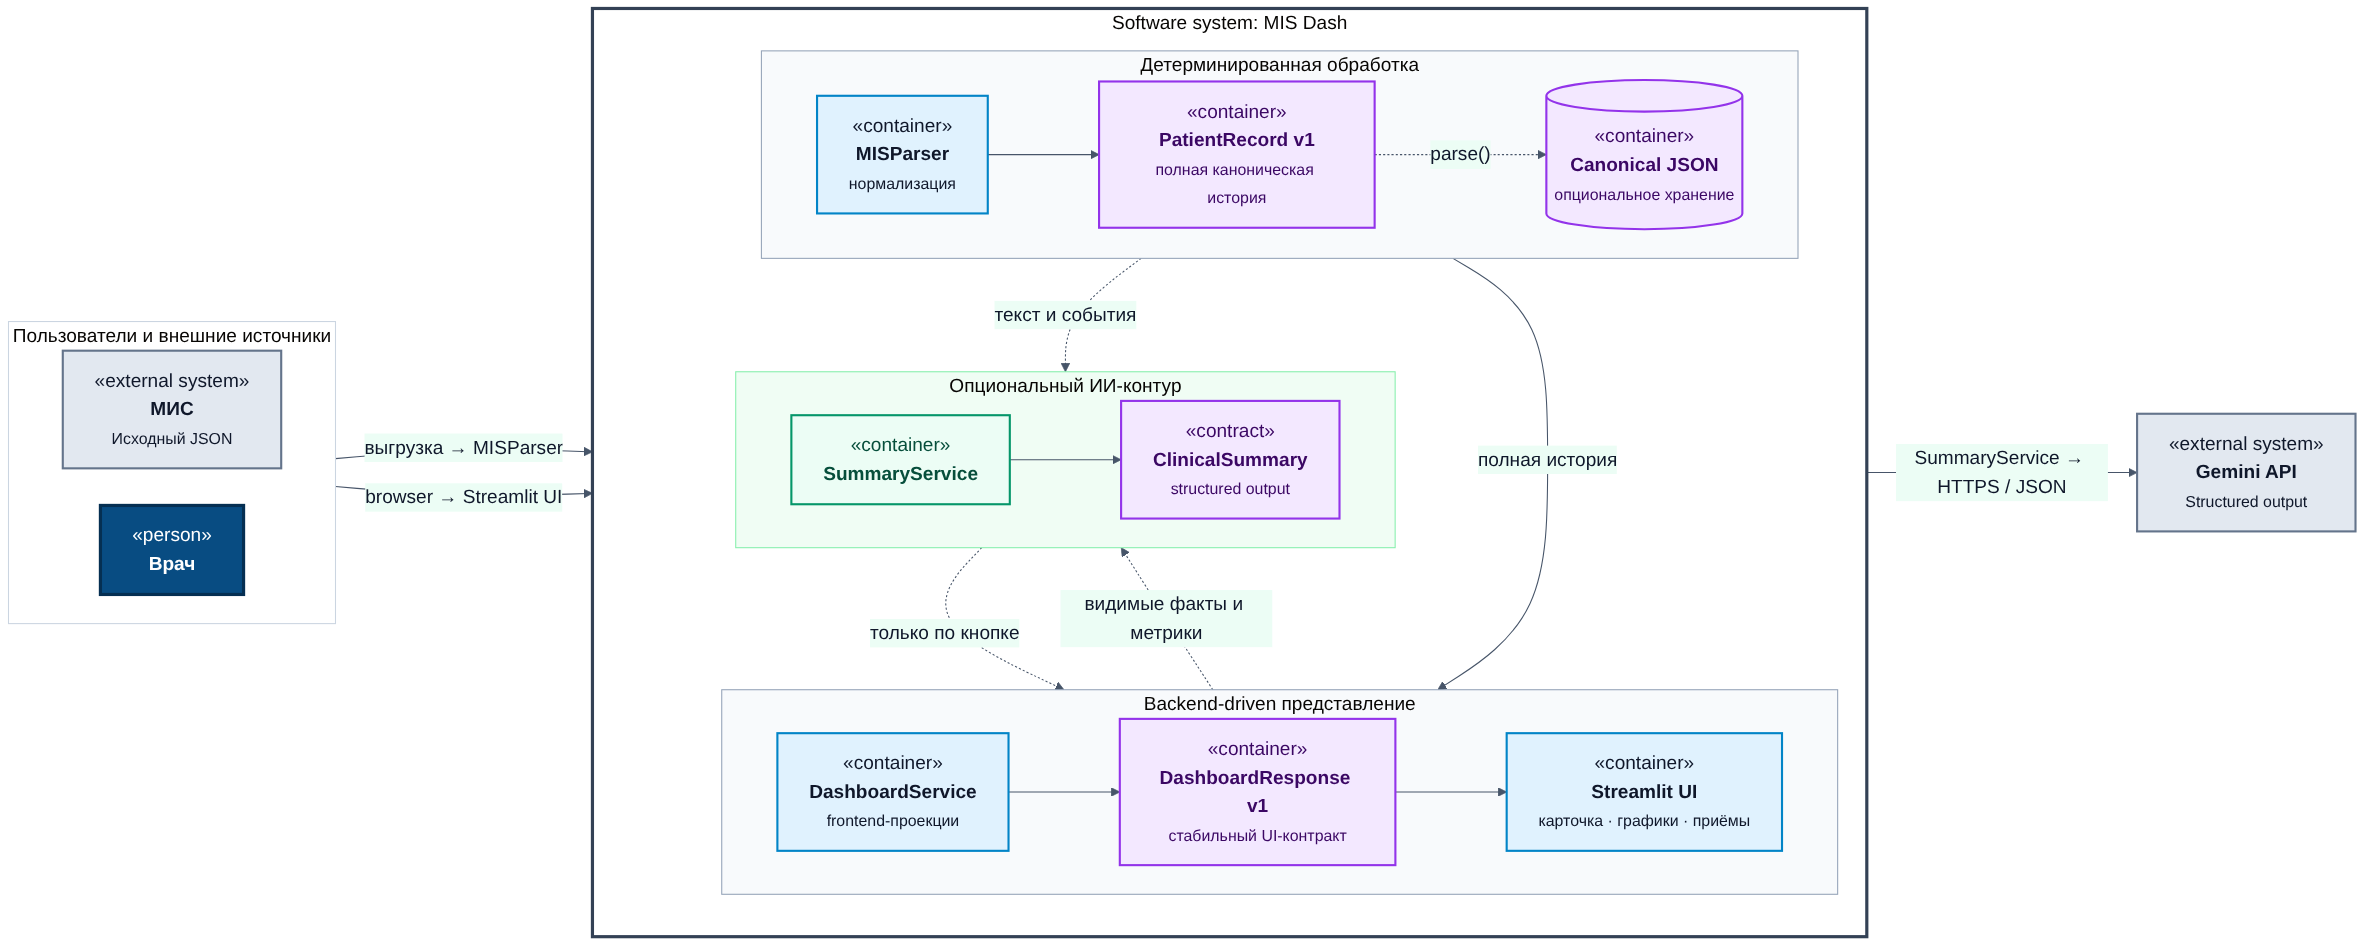
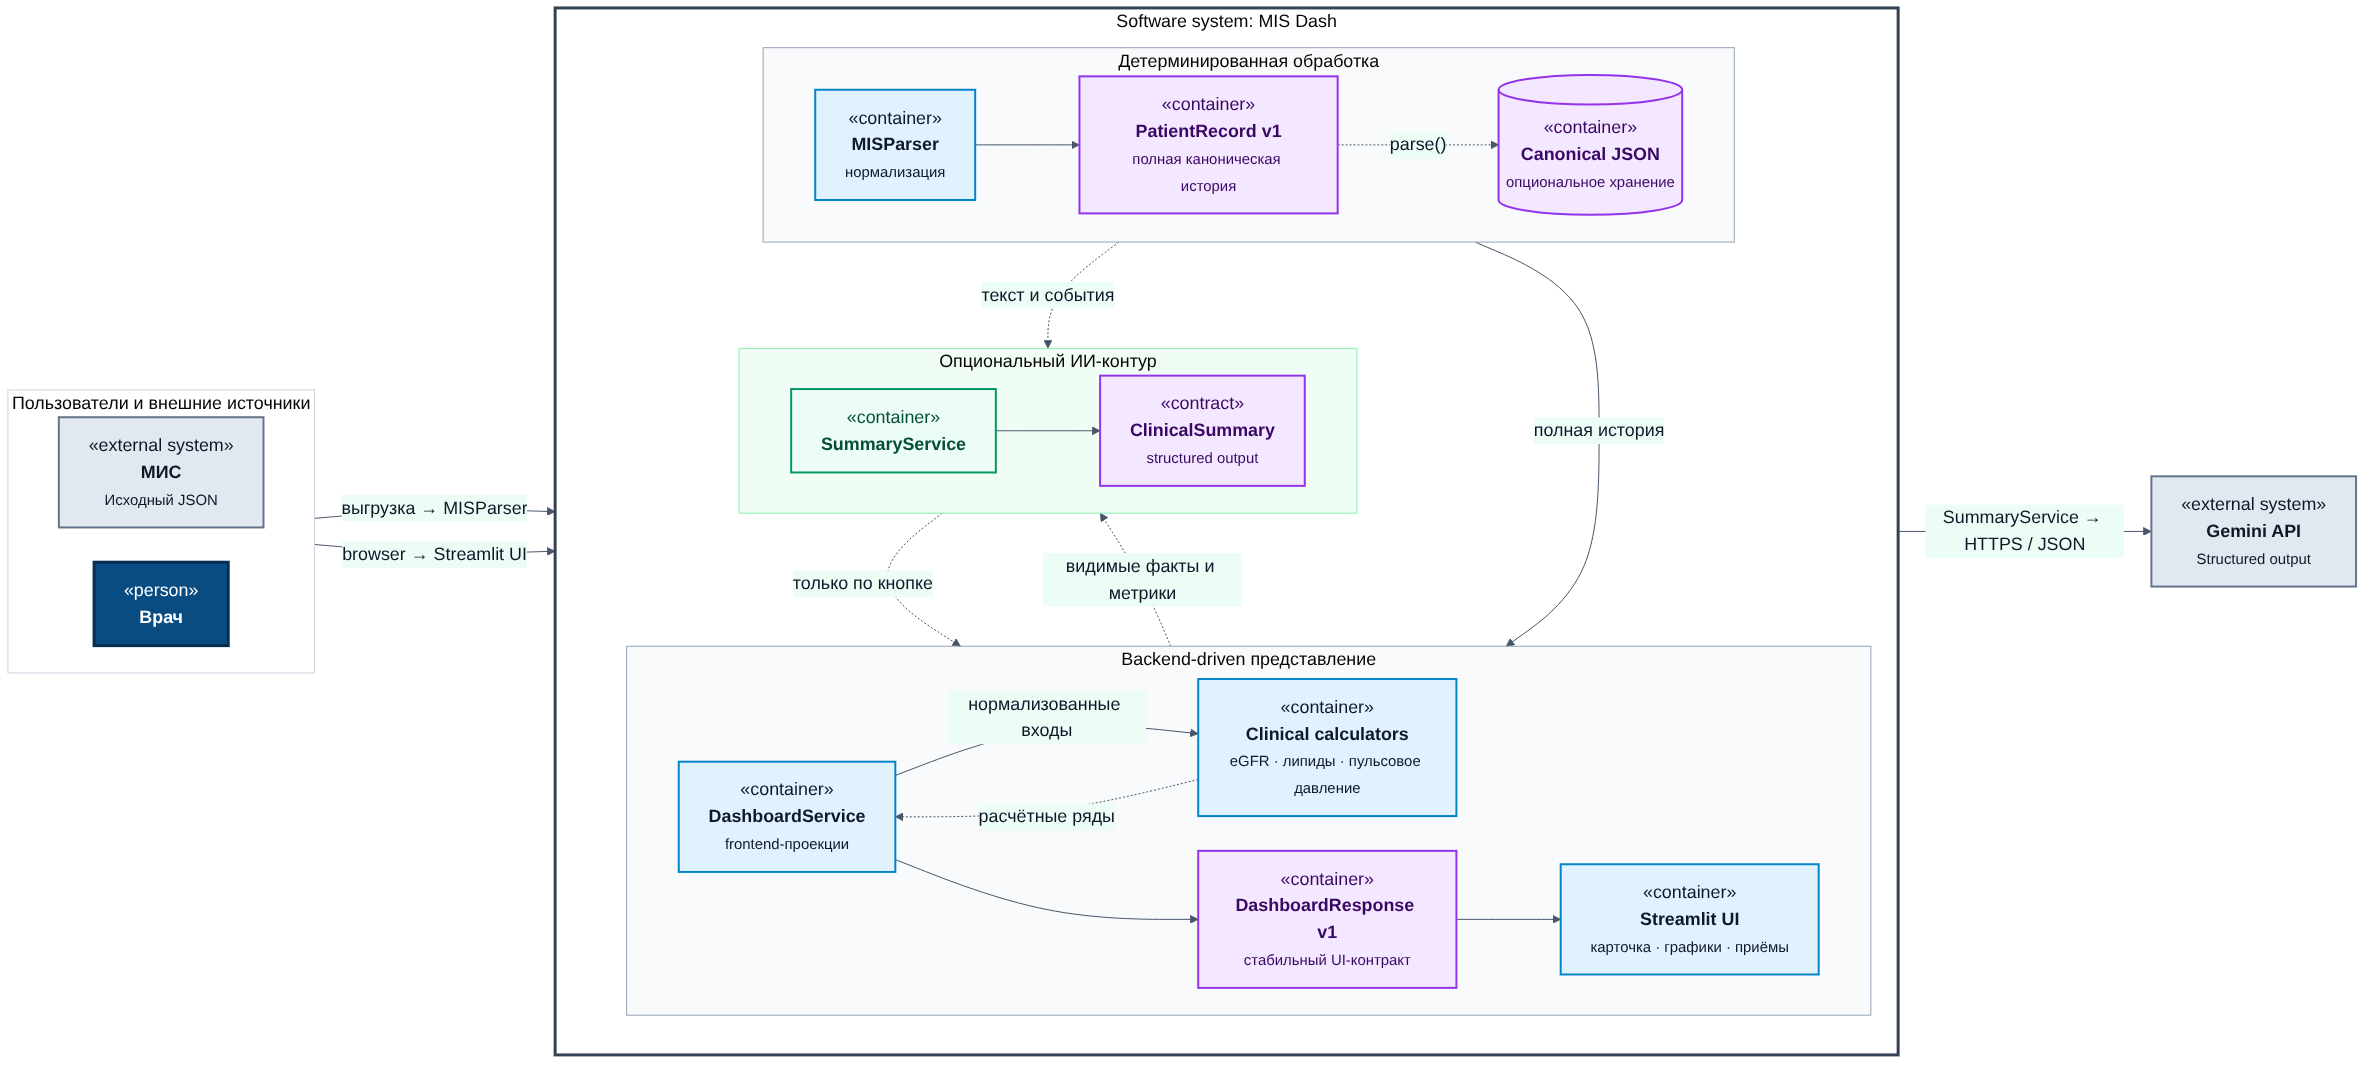
feat: surface calculated metrics in dashboard

diff --git a/src/app/components/metrics.py b/src/app/components/metrics.py
@@ -8,7 +8,7 @@ from datetime import date, datetime, time, timedelta, timezone
 import plotly.graph_objects as go
 import streamlit as st
 
-from src.contracts.dashboard.v1 import DashboardResponse, MetricSeries
+from src.contracts.dashboard.v1 import CalculationInfo, DashboardResponse, MetricSeries
 
 
 @dataclass(frozen=True)
@@ -22,20 +22,31 @@ METRIC_GROUPS = (
     MetricGroup(
         "blood-pressure",
         "Артериальное давление",
-        ("systolic", "diastolic"),
+        ("systolic", "diastolic", "pulse-pressure"),
     ),
     MetricGroup(
         "glycemic-control",
         "Гликемический контроль",
         ("glucose", "hba1c"),
     ),
-    MetricGroup("kidneys", "Почки", ("creatinine", "potassium")),
+    MetricGroup(
+        "kidneys",
+        "Почки",
+        (
+            "creatinine",
+            "egfr-ckd-epi-2021",
+            "urine-albumin-creatinine-ratio",
+            "potassium",
+        ),
+    ),
     MetricGroup(
         "lipids",
         "Липиды",
         (
             "total-cholesterol",
+            "non-hdl-cholesterol",
             "ldl-cholesterol",
+            "calculated-ldl-cholesterol",
             "hdl-cholesterol",
             "triglycerides",
         ),
@@ -86,6 +97,7 @@ def render_metrics(dashboard: DashboardResponse) -> None:
                     use_container_width=True,
                     config={"displayModeBar": False},
                 )
+            _render_calculation_explanations(series)
 
 
 def _series_for_group(
@@ -121,7 +133,12 @@ def _build_figure(unit: str | None, series: list[MetricSeries]) -> go.Figure:
             go.Scattergl(
                 x=[point.observed_at for point in item.points],
                 y=[point.value for point in item.points],
-                customdata=[point.source_category for point in item.points],
+                customdata=[
+                    "Расчётный показатель"
+                    if item.calculation is not None
+                    else point.source_category
+                    for point in item.points
+                ],
                 mode=(
                     "lines"
                     if len(item.points) > DENSE_SERIES_POINT_THRESHOLD
@@ -154,6 +171,32 @@ def _build_figure(unit: str | None, series: list[MetricSeries]) -> go.Figure:
         yaxis_title=unit or "Значение",
     )
     return figure
+
+
+def _render_calculation_explanations(series: list[MetricSeries]) -> None:
+    for item in series:
+        if item.calculation is None:
+            continue
+        with st.expander(f"Как рассчитан показатель «{item.display}»"):
+            _render_calculation_info(item.calculation)
+
+
+def _render_calculation_info(info: CalculationInfo) -> None:
+    st.markdown(f"**Что это:** {info.description}")
+    st.markdown(f"**Для чего:** {info.purpose}")
+    st.markdown(f"**Используемые данные:** {', '.join(info.inputs)}")
+    st.markdown(f"**Метод:** {info.method}")
+    st.markdown(f"**Основание:** {info.standard}")
+    if info.limitations:
+        st.markdown("**Ограничения:**")
+        for limitation in info.limitations:
+            st.markdown(f"- {limitation}")
+    if info.references:
+        links = " · ".join(
+            f"[Источник {index}]({url})"
+            for index, url in enumerate(info.references, start=1)
+        )
+        st.markdown(f"**Ссылки:** {links}")
 
 
 def _default_date_range(

diff --git a/tests/test_summarizer_context.py b/tests/test_summarizer_context.py
@@ -5,6 +5,13 @@ from __future__ import annotations
 from datetime import date, datetime, timezone
 
 from src.backend import DashboardService
+from src.contracts.dashboard.v1 import (
+    CalculationInfo,
+    DashboardPatient,
+    DashboardResponse,
+    MetricPoint,
+    MetricSeries,
+)
 from src.contracts.patient.v1 import (
     Condition,
     DiagnosticReport,
@@ -139,3 +146,40 @@ def test_context_sends_metric_summary_instead_of_raw_observations() -> None:
     assert "среднее за предыдущие 12 месяцев: 5.00 mmol/L" in metric.text
     assert "изменение средних: +1.50 mmol/L" in metric.text
     assert "glucose-0" not in metric.text
+
+
+def test_context_marks_calculated_metric_and_method() -> None:
+    record = _record()
+    dashboard = DashboardResponse(
+        generated_at=datetime(2026, 1, 1, tzinfo=timezone.utc),
+        patient=DashboardPatient(id="patient-1", full_name="Synthetic Patient"),
+        metrics=[
+            MetricSeries(
+                code="egfr-ckd-epi-2021",
+                display="Расчётная СКФ",
+                unit="mL/min/1.73m2",
+                points=[
+                    MetricPoint(
+                        observed_at=date(2025, 12, 1),
+                        value=55.2,
+                        source_category="calculated",
+                        source_ids=["creatinine-1"],
+                    )
+                ],
+                calculation=CalculationInfo(
+                    code="egfr-ckd-epi-2021",
+                    description="Расчётная функция почек.",
+                    inputs=["Креатинин", "Возраст", "Пол"],
+                    purpose="Показать динамику.",
+                    method="2021 CKD-EPI creatinine equation",
+                    standard="KDIGO 2024",
+                ),
+            )
+        ],
+    )
+
+    context = build_summary_context(record, dashboard)
+
+    assert len(context.facts) == 1
+    assert "тип значения: рассчитано детерминированным кодом" in context.facts[0].text
+    assert "метод расчёта: 2021 CKD-EPI creatinine equation" in context.facts[0].text

diff --git a/tests/test_app_metrics.py b/tests/test_app_metrics.py
@@ -9,6 +9,7 @@ import pytest
 
 from src.app.components import metrics as component
 from src.contracts.dashboard.v1 import (
+    CalculationInfo,
     DashboardPatient,
     DashboardResponse,
     MetricPoint,
@@ -106,6 +107,44 @@ def test_metrics_handle_missing_series_and_empty_points(
     streamlit.info.assert_called_once_with(
         "Нет данных для отображения динамики показателей."
     )
+
+
+def test_metrics_render_backend_calculation_explanation(
+    monkeypatch: pytest.MonkeyPatch,
+) -> None:
+    streamlit = MagicMock()
+    streamlit.tabs.return_value = [_Tab(open=True)]
+    monkeypatch.setattr(component, "st", streamlit)
+    calculated = _series("pulse-pressure", "Пульсовое давление", "mmHg", 60)
+    calculated.calculation = CalculationInfo(
+        code="pulse-pressure",
+        description="Разница между САД и ДАД.",
+        inputs=["САД", "ДАД"],
+        purpose="Показать динамику.",
+        method="SBP - DBP",
+        standard="ESC 2024",
+        limitations=["Не является прямым измерением жёсткости артерий."],
+        references=["https://example.test/standard"],
+    )
+
+    component.render_metrics(_dashboard(calculated))
+
+    streamlit.expander.assert_called_once_with(
+        "Как рассчитан показатель «Пульсовое давление»"
+    )
+    markdown = [call.args[0] for call in streamlit.markdown.call_args_list]
+    assert "**Метод:** SBP - DBP" in markdown
+    assert any("Не является прямым измерением" in item for item in markdown)
+
+
+def test_metric_groups_include_calculated_backend_codes() -> None:
+    groups = {group.key: group.codes for group in component.METRIC_GROUPS}
+
+    assert "pulse-pressure" in groups["blood-pressure"]
+    assert "egfr-ckd-epi-2021" in groups["kidneys"]
+    assert "urine-albumin-creatinine-ratio" in groups["kidneys"]
+    assert "non-hdl-cholesterol" in groups["lipids"]
+    assert "calculated-ldl-cholesterol" in groups["lipids"]
 
 
 def _dashboard(*metrics: MetricSeries) -> DashboardResponse:

diff --git a/src/summarizer/context.py b/src/summarizer/context.py
@@ -211,6 +211,13 @@ def _add_metric(builder: _ContextBuilder, metric: MetricSeries) -> None:
         ("последнее значение", f"{latest.value:g}{unit} от {_iso_date(latest.observed_at)}"),
         ("измерений за последние 12 месяцев", len(recent)),
     ]
+    if metric.calculation is not None:
+        parts.extend(
+            (
+                ("тип значения", "рассчитано детерминированным кодом"),
+                ("метод расчёта", metric.calculation.method),
+            )
+        )
     if recent and previous:
         recent_mean = sum(point.value for point in recent) / len(recent)
         previous_mean = sum(point.value for point in previous) / len(previous)

diff --git a/docs/frontend.md b/docs/frontend.md
@@ -54,10 +54,10 @@ Frontend группирует стабильные backend-коды только
 
 | Вкладка | Коды временных рядов |
 | --- | --- |
-| Артериальное давление | `systolic`, `diastolic` |
+| Артериальное давление | `systolic`, `diastolic`, `pulse-pressure` |
 | Гликемический контроль | `glucose`, `hba1c` |
-| Почки | `creatinine`, `potassium` |
-| Липиды | `total-cholesterol`, `ldl-cholesterol`, `hdl-cholesterol`, `triglycerides` |
+| Почки | `creatinine`, `egfr-ckd-epi-2021`, `urine-albumin-creatinine-ratio`, `potassium` |
+| Липиды | `total-cholesterol`, `non-hdl-cholesterol`, `ldl-cholesterol`, `calculated-ldl-cholesterol`, `hdl-cholesterol`, `triglycerides` |
 | Вес и BMI | `body-weight`, `bmi` |
 
 Показываются только вкладки, для которых есть непустые ряды. Внутри группы
@@ -66,6 +66,11 @@ Frontend группирует стабильные backend-коды только
 одновременно созданных Plotly-графиков и предотвращает сбои плотной страницы.
 Для длинных рядов маркеры скрываются, а начальный диапазон ограничивается
 последним годом.
+
+Производные показатели визуально помечаются как расчётные. Под графиками
+frontend универсально отображает переданный backend-блок `calculation`: что это
+за показатель, какие данные использованы, для чего он нужен, метод, основание,
+ограничения и ссылки. Формулы и медицинские пояснения не зашиты в Streamlit.
 
 ## ИИ-сводка и состояние сессии
 
@@ -93,7 +98,7 @@ pytest -q
 ## Заметки по развитию frontend
 
 - `red_flags` уже отображаются, но backend пока не формирует их;
-- расчётная СКФ пока не входит в `DashboardResponse v1`;
+- красные флаги для рассчитанных показателей пока не формируются;
 - аутентификация и production deployment не реализованы;
 - перед релизом нужно проверить интерфейс на втором файле генератора и на
   узком экране;

diff --git a/docs/summarizer.md b/docs/summarizer.md
@@ -38,6 +38,11 @@
 - средние значения за последние 12 месяцев и предыдущие 12 месяцев, а также
   рассчитанную кодом разницу между этими периодами.
 
+Производные backend-ряды (например, eGFR, не-ЛПВП и пульсовое давление)
+передаются как числовые факты вместе с названием метода и явной пометкой
+«рассчитано детерминированным кодом». Gemini не пересчитывает формулы и не
+смешивает такие значения с прямыми лабораторными измерениями.
+
 Сравнение первого и последнего измерения за всю многолетнюю историю не
 используется: оно часто преувеличивает текущую динамику. Если одного из годовых
 периодов нет, контекст прямо сообщает, что данных для сравнения недостаточно.

diff --git a/README.md b/README.md
@@ -100,7 +100,7 @@ mis_dash/
 ├── src/
 │   ├── app/              # Streamlit-интерфейс
 │   ├── backend/          # построение DashboardResponse v1
-│   ├── calculators/      # медицинские вычисления и будущие правила
+│   ├── calculators/      # объяснимые медицинские формулы
 │   ├── contracts/        # PatientRecord v1 и DashboardResponse v1
 │   ├── parser/           # разбор и нормализация выгрузки МИС
 │   ├── storage/          # чтение и атомарная запись PatientRecord
